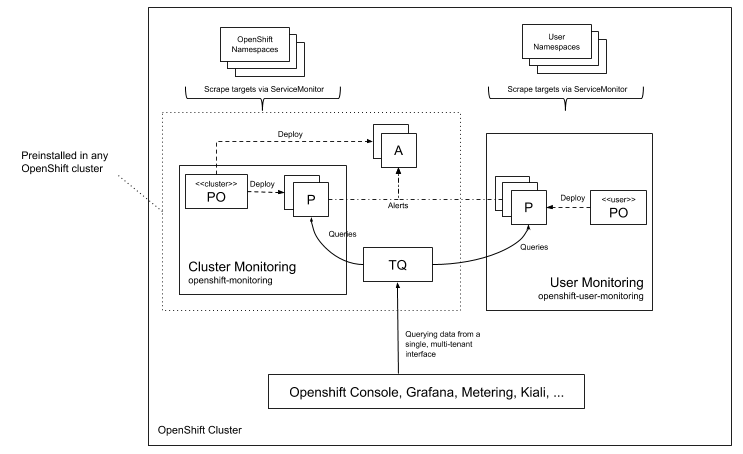
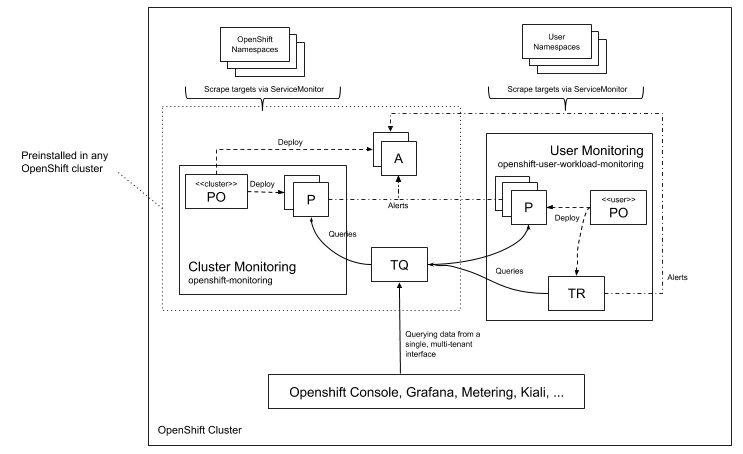
monitoring: tenancy alerting

diff --git a/enhancements/monitoring/user-workload-monitoring.md b/enhancements/monitoring/user-workload-monitoring.md
@@ -51,7 +51,8 @@ This effectively means the following custom resources:
 - [PodMonitor](https://github.com/openshift/prometheus-operator/blob/master/Documentation/api.md#podmonitor)
 - [PrometheusRule](https://github.com/openshift/prometheus-operator/blob/master/Documentation/api.md#prometheusrule)
 
-Allow the correlation between app and cluster centric metrics.
+Allow the correlation between app and cluster centric metrics not only when querying metrics
+but also inside user defined alerts and recording rules.
 
 ### Non-Goals
 
@@ -71,7 +72,9 @@ as well as the newly added Prometheus servers.
 
 The cluster Prometheus Operator (PO) continues to operate the cluster-level Prometheus.
 We will continue to use a centralized Alertmanager (A) cluster.
-The existing Alertmanager cluster will aggregate both user workload alerts as well as cluster alerts. Tenancy will be achieved by forcing specific labels onto metrics and alerts by which the central Alertmanager config can route similarly to how tenancy is achieved at the query level (see below).
+The existing Alertmanager cluster will aggregate both user workload alerts as well as cluster alerts.
+Tenancy will be achieved by forcing specific labels onto metrics and alerts
+by which the central Alertmanager config can route similarly to how tenancy is achieved at the query level (see below).
 
 Querying data from a single, multi-tenant interface is done using the Thanos Querier (TQ) component.
 Tenancy is enforced at the prometheus query layer. This is achieved by leveraging the existing topology using kube-rbac-proxy [1] and prom-label-proxy [2].
@@ -125,6 +128,14 @@ As a member of the operations tenant, I’d like to make sure that one tenant do
 
 As a member of the operations team, I'd like the ability for application developers to access container cpu and memory usage metrics.
 
+### US9
+
+As a service owner, I'd like to configure alerting rules or recording rules for my service that correlate both cluster as well as user defined metrics.
+
+### US10
+
+As a service owner, I'd like to view configured and fired alerts in the dev perspective of OpenShift console.
+
 ### Implementation Details/Notes/Constraints
 
 #### Isolation
@@ -134,7 +145,7 @@ reconciled by two separate prometheus operators.
 Both prometheus operators are under supervision of cluster monitoring operator.
 This allows a separation of concerns in terms of upgradability, security settings, and scalability.
 The cluster monitoring Prometheus Operator continues to be deployed in the `openshift-monitoring` namespace.
-The user workload monitoring Prometheus Operator will be deployed in the `openshift-user-monitoring` namespace.
+The user workload monitoring Prometheus Operator is deployed in the `openshift-user-workload-monitoring` namespace.
 
 Currently, cluster monitoring operator scans all namespaces filtering `openshift` namespaces labeled with
 `openshift.io/cluster-monitoring: "true"` and takes this set of namespaces as the _allowed list_ of reconcilable
@@ -142,21 +153,21 @@ namespaces for the existing cluster monitoring prometheus operator.
 
 The same set of openshift namespaces that exist today will be configured as a _deny list_ of reconcilable namespaces
 at the user workload monitoring prometheus operator.
-Deny listing of namespaces was added recently in prometheus operator, see [3].
+Deny listing of namespaces was added in prometheus operator, see [3].
 
-To make sure that users cannot add Prometheus instances in user namespaces,
-a new WIP feature [4] will ensure that reconciliation of Prometheus custom resources
-will be limited to the `openshift-user-monitoring` namespace for the user workload monitoring prometheus operator
+To make sure that users cannot add Prometheus/Alertmanager/ThanosRuler instances in user namespaces,
+a feature in prometheus-operator [4] ensures that reconciliation of the corresponding custom resources
+will be limited to the `openshift-user-workload-monitoring` namespace for the user workload monitoring prometheus operator
 and `openshift-monitoring` namespace for the cluster monitoring prometheus operator.
 
 ![](user-namespaces-custom-resources.png)
 
-User workload monitoring Prometheus Operator (green) then will reconcile Prometheus custom resources
-in the `openshift-user-monitoring` namespace only.
+User workload monitoring Prometheus Operator (green) then will reconcile Prometheus/Alertmanager/ThanosRuler custom resources
+in the `openshift-user-workload-monitoring` namespace only.
 It ignores Prometheus custom resources in any other namespace.
 The same holds true for the cluster monitoring prometheus operator (red).
 
-#### Aggregation
+#### Query Aggregation
 
 The front facing Kubernetes service has to make it as simple as possible
 for integrators to leverage both user workload monitoring as well as cluster monitoring.
@@ -173,7 +184,39 @@ Usage of the Thanos querier component inside cluster monitoring has many advanta
 
 See [5] and [6] for more details.
 
+#### Alerts/Recording Rules Aggregation
+
+Thanos Querier only solves aggregating the query path. For aggregating recording rules as well as alerting rules
+another component Thanos Ruler is deployed. This component is responsible for hosting user defined recording rules
+as well as alerting rules.
+
+Thanos Ruler is deployed via the user workload monitoring prometheus operator via a new CRD called ThanosRule.
+The same _deny list_ setting is applied to user workload monitoring prometheus operator such that the user cannot
+deploy its own Thanos Ruler instances in user namespaces.
+
+Thanos Ruler queries Thanos Querier to resolve recording and alerting rules.
+This does have implications on the availability of user defined alerts.
+In order for alerts to work the following systems need to be up:
+
+1. Thanos Ruler
+2. Thanos Querier
+3. User workload Prometheus
+4. Cluster monitoring Prometheus
+
+If there is no need to aggregate user defined metrics and cluster level metrics in user alerts,
+higher availability can be achieved by hosting user defined alerting rules on the
+user workload Prometheus instances.
+
+This is enabled by setting a label on the PrometheusRule custom resource which is deployed by the user.
+Prometheus Operator then dispatches the deployment of this rule on the user workload monitoring Prometheus instance
+rather than on the Thanos Ruler instance.
+In order for alerts to work in this case the following systems need to be up:
+
+1. User workload Prometheus
+
 ### Tenancy
+
+#### Queries
 
 ![](user-monitoring-request.png)
 
@@ -182,18 +225,29 @@ The kube-rbac-proxy sidecar will be deployed along with prom-label-proxy in the 
 
 For details about the tenancy model see the README for prom-label-proxy [2].
 
+#### Rules and Alerting tenancy
+
+![](user-monitoring-rules-request.png)
+
+OpenShift consoles executes queries against the `/rules` and `/alerts` endpoint of Prometheus and Alertmanager
+to retrieve a list alerts and rules. This endpoint is made tenant-aware by prom-label-proxy.
+
+Recording rules as well as alerting rules deployed via user workload monitoring are having enforced namespace labels set.
+The list of rules and alerts is being filtered by prom-label-proxy based on the tenant namespace label.
+
 ### Multitenancy
 
-To account for multi tenant clusters, we want to add a label of origin to each metric that comes from the user workloads
-discovery objects e.g. ServiceMonitor and PodMonitors. To do this we will introduce a new field in the Prometheus Custom
-Resource in prometheus-operator `enforcedNamespaceLabel` which will contain the key of the label, with the value being
-the namespace in which the object was created in. Besides the above mentioned new label, the prometheus-operator will
+To account for multi tenant clusters, a label of origin to each metric, recording, and alerting rule
+is added that comes from the user workloads discovery objects e.g. ServiceMonitor, PodMonitors, and PrometheusRules.
+To do this the Prometheus custom resource that declares the user workload Prometheus has the field `enforcedNamespaceLabel` set.
+It contains the key of the label, with the value being the namespace in which the object was created in.
+Besides the above mentioned new label, the prometheus-operator will
 also enforce applying that same label, to any relabelConfigs relabelings, this will always be added as a last label so
 it makes sure that only the last label is taken into account and no one can override the namespace label. For the
-metricRelabelings we will remove any relabeling rule that has namespace target. The above work is all in
-prometheus-operator, in cluster-monitoring-operator we will set the field to `enforcedNamespaceLabel: namespace`. This
+metricRelabelings we remove any relabeling rule that has namespace target. The above work is all in
+prometheus-operator, in cluster-monitoring-operator we set the field to `enforcedNamespaceLabel: namespace`. This
 ensures we do not have to override the work that prom-label-proxy is already doing. Same must be done for alerts, there
-we will inject the same label key value to the promql expression and append it to the label array. This will ensure that
+we inject the same label key value to the promql expression and append it to the label array. This ensures that
 the rules and alerts include the users namespace.
 
 honor_labels controls how prometheus handles conflicts between labels already present in scraped data and the labels
